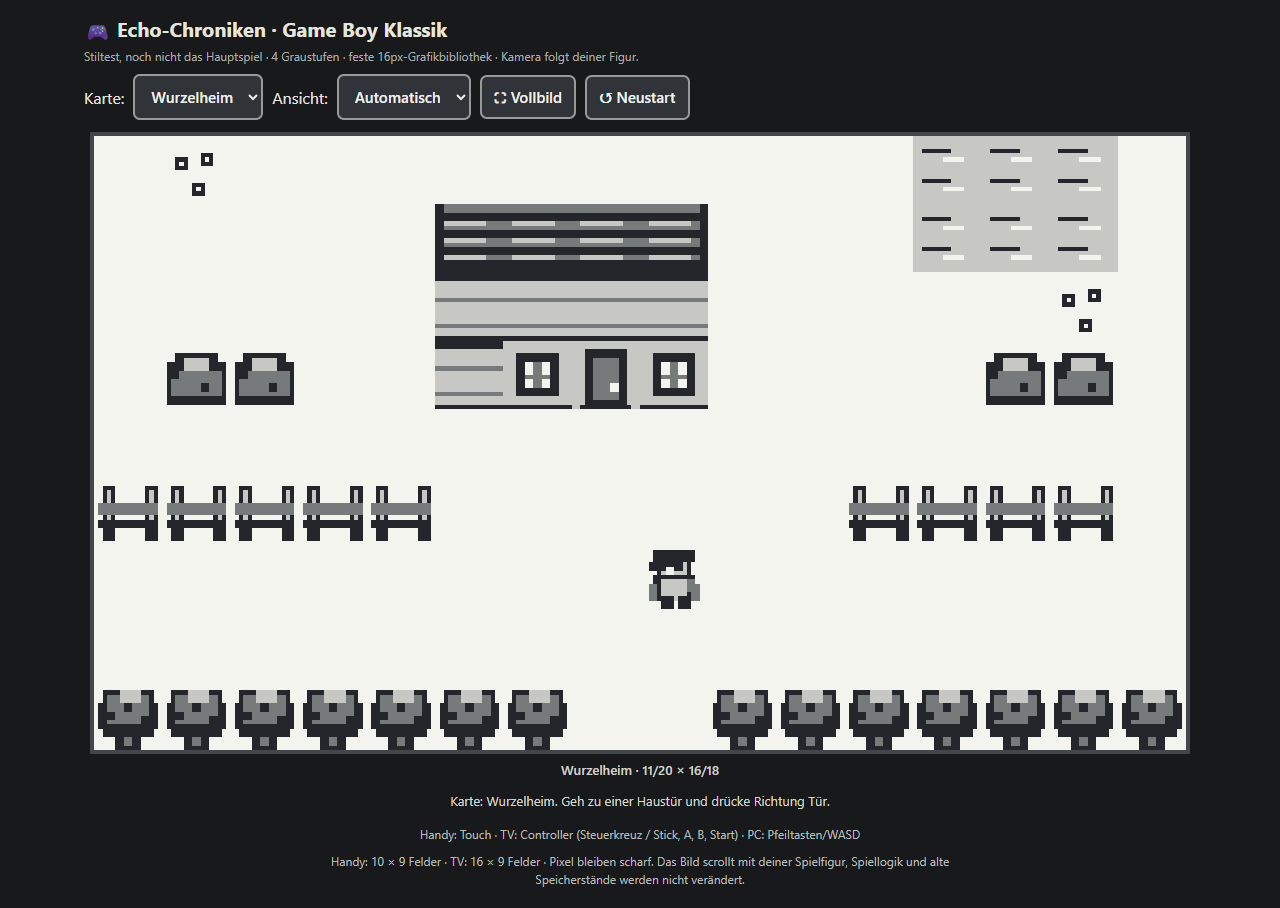
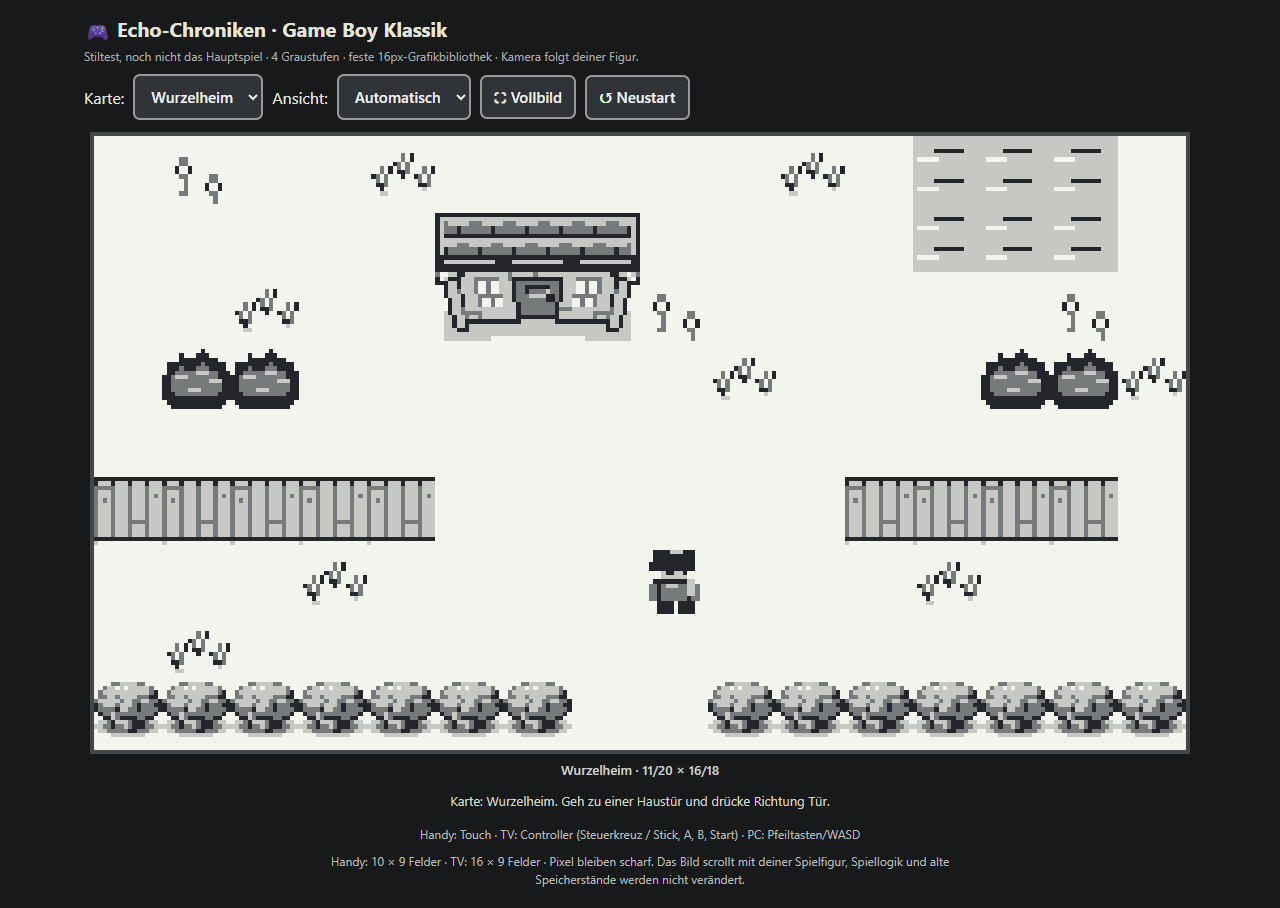
art: ship CC0 hand-pixeled 4-tone village assets and real browser screenshots

diff --git a/echo-chroniken/docs/gb-classic/klassik-demo.html b/echo-chroniken/docs/gb-classic/klassik-demo.html
@@ -56,9 +56,9 @@ h1{font-size:18px}select,button{padding:9px 10px}}
 <footer>Handy: 10 × 9 Felder · TV: 16 × 9 Felder · Pixel bleiben scharf. Das Bild scrollt mit deiner Spielfigur, Spiellogik und alte Speicherstände werden nicht verändert.</footer>
 <script>
 'use strict';
-const DATA={"version":"1.0","scenes":{"Wurzelheim":{"width":20,"height":18,"rows":["44444444400444444444","40000000000000000004","40000000000000000004","400abbc000000abbc004","400dddd000000dddd004","400defd000000def9004","40000000000000000004","40555500000055555004","40000000009000000004","400B0000000000666004","4000000abbc000666004","4000000dddd00000B004","4003300defe000033004","40000000000000000004","40555550000005555004","4000000000y000000004","40000000000000000004","44444444400444444444"],"blocked":[[0,0],[1,0],[2,0],[3,0],[4,0],[5,0],[6,0],[7,0],[8,0],[11,0],[12,0],[13,0],[14,0],[15,0],[16,0],[17,0],[18,0],[19,0],[0,1],[19,1],[0,2],[19,2],[0,3],[3,3],[4,3],[5,3],[6,3],[13,3],[14,3],[15,3],[16,3],[19,3],[0,4],[3,4],[4,4],[5,4],[6,4],[13,4],[14,4],[15,4],[16,4],[19,4],[0,5],[3,5],[4,5],[6,5],[13,5],[14,5],[19,5],[0,6],[19,6],[0,7],[2,7],[3,7],[4,7],[5,7],[12,7],[13,7],[14,7],[15,7],[16,7],[19,7],[0,8],[19,8],[0,9],[14,9],[15,9],[16,9],[19,9],[0,10],[7,10],[8,10],[9,10],[10,10],[14,10],[15,10],[16,10],[19,10],[0,11],[7,11],[8,11],[9,11],[10,11],[19,11],[0,12],[3,12],[4,12],[7,12],[8,12],[10,12],[15,12],[16,12],[19,12],[0,13],[19,13],[0,14],[2,14],[3,14],[4,14],[5,14],[6,14],[13,14],[14,14],[15,14],[16,14],[19,14],[0,15],[19,15],[0,16],[19,16],[0,17],[1,17],[2,17],[3,17],[4,17],[5,17],[6,17],[7,17],[8,17],[11,17],[12,17],[13,17],[14,17],[15,17],[16,17],[17,17],[18,17],[19,17]]},"Route":{"width":20,"height":18,"rows":["44444444000444444444","44000000000000000044","44000000000000000044","44022220000002222044","44022220000002222044","44022220000002222044","44022220000002222044","44022220000002222044","44022220000002222044","4400000000000x000044","44000090000000000044","44000000000000000044","44022220000000000044","44022220000555550044","44022220000000000044","440000000y0000000044","44000000000000000044","44444444000444444444"],"blocked":[[0,0],[1,0],[2,0],[3,0],[4,0],[5,0],[6,0],[7,0],[11,0],[12,0],[13,0],[14,0],[15,0],[16,0],[17,0],[18,0],[19,0],[0,1],[1,1],[18,1],[19,1],[0,2],[1,2],[18,2],[19,2],[0,3],[1,3],[18,3],[19,3],[0,4],[1,4],[18,4],[19,4],[0,5],[1,5],[18,5],[19,5],[0,6],[1,6],[18,6],[19,6],[0,7],[1,7],[18,7],[19,7],[0,8],[1,8],[18,8],[19,8],[0,9],[1,9],[18,9],[19,9],[0,10],[1,10],[18,10],[19,10],[0,11],[1,11],[18,11],[19,11],[0,12],[1,12],[18,12],[19,12],[0,13],[1,13],[11,13],[12,13],[13,13],[14,13],[15,13],[18,13],[19,13],[0,14],[1,14],[18,14],[19,14],[0,15],[1,15],[18,15],[19,15],[0,16],[1,16],[18,16],[19,16],[0,17],[1,17],[2,17],[3,17],[4,17],[5,17],[6,17],[7,17],[11,17],[12,17],[13,17],[14,17],[15,17],[16,17],[17,17],[18,17],[19,17]]},"Laden":{"width":12,"height":9,"rows":["hhhhhhhhhhhh","hgiiiiiggxgh","hggggggjjjjh","hggggggggggh","hggiiggiiggh","hggggggggggh","hgggggyggggh","hggggggggggh","hhhhhhfhhhhh"],"blocked":[[0,0],[1,0],[2,0],[3,0],[4,0],[5,0],[6,0],[7,0],[8,0],[9,0],[10,0],[11,0],[0,1],[2,1],[3,1],[4,1],[5,1],[6,1],[11,1],[0,2],[7,2],[8,2],[9,2],[10,2],[11,2],[0,3],[11,3],[0,4],[3,4],[4,4],[7,4],[8,4],[11,4],[0,5],[11,5],[0,6],[11,6],[0,7],[11,7],[0,8],[1,8],[2,8],[3,8],[4,8],[5,8],[7,8],[8,8],[9,8],[10,8],[11,8]]},"Heilstation":{"width":14,"height":9,"rows":["hhhhhhhhhhhhhh","hggggggngxgggh","hgvjjjjjjjjvgh","hggggggggggggh","hggggggggggggh","hggllggggllggh","hggggggygggggh","hggggggggggggh","hhhhhhhfhhhhhh"],"blocked":[[0,0],[1,0],[2,0],[3,0],[4,0],[5,0],[6,0],[7,0],[8,0],[9,0],[10,0],[11,0],[12,0],[13,0],[0,1],[7,1],[13,1],[0,2],[2,2],[3,2],[4,2],[5,2],[6,2],[7,2],[8,2],[9,2],[10,2],[11,2],[13,2],[0,3],[13,3],[0,4],[13,4],[0,5],[3,5],[4,5],[9,5],[10,5],[13,5],[0,6],[13,6],[0,7],[13,7],[0,8],[1,8],[2,8],[3,8],[4,8],[5,8],[6,8],[8,8],[9,8],[10,8],[11,8],[12,8],[13,8]]},"Schmiede":{"width":12,"height":9,"rows":["hhhhhhhhhhhh","hgiggggggggh","hggugggxgogh","hggggggggggh","hgggggpggggh","hggggggggggh","hgjjjgyggqgh","hggggggggggh","hhhhhhfhhhhh"],"blocked":[[0,0],[1,0],[2,0],[3,0],[4,0],[5,0],[6,0],[7,0],[8,0],[9,0],[10,0],[11,0],[0,1],[2,1],[11,1],[0,2],[3,2],[9,2],[11,2],[0,3],[11,3],[0,4],[6,4],[11,4],[0,5],[11,5],[0,6],[2,6],[3,6],[4,6],[9,6],[11,6],[0,7],[11,7],[0,8],[1,8],[2,8],[3,8],[4,8],[5,8],[7,8],[8,8],[9,8],[10,8],[11,8]]},"Teamtausch":{"width":12,"height":9,"rows":["hhhhhhhhhhhh","hggmmgwwwggh","hggggggggggh","hgggggxggggh","hggggggggggh","hggjggggjggh","hgggggyggggh","hggggggggggh","hhhhhhfhhhhh"],"blocked":[[0,0],[1,0],[2,0],[3,0],[4,0],[5,0],[6,0],[7,0],[8,0],[9,0],[10,0],[11,0],[0,1],[3,1],[4,1],[6,1],[7,1],[8,1],[11,1],[0,2],[11,2],[0,3],[11,3],[0,4],[11,4],[0,5],[3,5],[8,5],[11,5],[0,6],[11,6],[0,7],[11,7],[0,8],[1,8],[2,8],[3,8],[4,8],[5,8],[7,8],[8,8],[9,8],[10,8],[11,8]]},"Wohnhaus":{"width":10,"height":8,"rows":["hhhhhhhhhh","hgsggggigh","hggggggggh","hggggggggh","hggggkgggh","hgvggylggh","hggggggggh","hhhhhfhhhh"],"blocked":[[0,0],[1,0],[2,0],[3,0],[4,0],[5,0],[6,0],[7,0],[8,0],[9,0],[0,1],[2,1],[7,1],[9,1],[0,2],[9,2],[0,3],[9,3],[0,4],[5,4],[9,4],[0,5],[2,5],[6,5],[9,5],[0,6],[9,6],[0,7],[1,7],[2,7],[3,7],[4,7],[6,7],[7,7],[8,7],[9,7]]}},"symbols":{"0":"floor","1":"path","2":"grass","3":"bush","4":"tree","5":"fence","6":"water_a","7":"water_b","8":"rock","9":"sign","a":"roof_l","b":"roof_m","c":"roof_r","d":"wall","e":"window","f":"door","g":"room_floor","h":"room_wall","i":"bookshelf","j":"counter","k":"table","l":"chair","m":"computer","n":"heal_pod","o":"forge","p":"anvil","q":"crate","r":"barrel","s":"bed","t":"stairs","u":"workbench","v":"plant","w":"capsule","x":"npc","y":"player","z":"water_edge","A":"hedge","B":"flower","C":"floor_stone"}},MANIFEST={"version":"1.0","name":"Echo-Chroniken GB-Klassik","license":"Original artwork, project-owned; inspired by constraints, not copied sprites","palette":["#f4f4ef","#c7c8c4","#777a7b","#24262b"],"tileSize":16,"sprites":{"floor":{"atlasIndex":0,"collision":false},"path":{"atlasIndex":1,"collision":false},"grass":{"atlasIndex":2,"collision":false},"bush":{"atlasIndex":3,"collision":true},"tree":{"atlasIndex":4,"collision":true},"fence":{"atlasIndex":5,"collision":true},"water_a":{"atlasIndex":6,"collision":true},"water_b":{"atlasIndex":7,"collision":true},"rock":{"atlasIndex":8,"collision":true},"sign":{"atlasIndex":9,"collision":false},"roof_l":{"atlasIndex":10,"collision":true},"roof_m":{"atlasIndex":11,"collision":true},"roof_r":{"atlasIndex":12,"collision":true},"wall":{"atlasIndex":13,"collision":true},"window":{"atlasIndex":14,"collision":true},"door":{"atlasIndex":15,"collision":false},"room_floor":{"atlasIndex":16,"collision":false},"room_wall":{"atlasIndex":17,"collision":true},"bookshelf":{"atlasIndex":18,"collision":true},"counter":{"atlasIndex":19,"collision":true},"table":{"atlasIndex":20,"collision":true},"chair":{"atlasIndex":21,"collision":true},"computer":{"atlasIndex":22,"collision":true},"heal_pod":{"atlasIndex":23,"collision":true},"forge":{"atlasIndex":24,"collision":true},"anvil":{"atlasIndex":25,"collision":true},"crate":{"atlasIndex":26,"collision":true},"barrel":{"atlasIndex":27,"collision":true},"bed":{"atlasIndex":28,"collision":true},"stairs":{"atlasIndex":29,"collision":false},"workbench":{"atlasIndex":30,"collision":true},"plant":{"atlasIndex":31,"collision":true},"capsule":{"atlasIndex":32,"collision":true},"npc":{"atlasIndex":33,"collision":false},"player":{"atlasIndex":34,"collision":false},"water_edge":{"atlasIndex":35,"collision":true},"hedge":{"atlasIndex":36,"collision":true},"flower":{"atlasIndex":37,"collision":false},"floor_stone":{"atlasIndex":38,"collision":false}},"sourceReferences":["https://www.peterhajas.com/blog/pokemon_rb_map_parsing/","https://opengameart.org/content/4-colour-interior-tileset","https://opengameart.org/content/4-colour-overworld-tileset"]};
+const DATA={"version":"1.0","scenes":{"Wurzelheim":{"width":20,"height":18,"rows":["44444444400444444444","40000000000000000004","40000000000000000004","400abc0000000abc0004","400efd0000020efd9004","40200020000000000204","40000000000000000004","40555500000055555004","40000000009000000004","400B0020000020666004","4000000abc0000666004","4000200efdB00000B004","40033000000200033204","40000000000000000004","40555550000005555004","4000020000y000200004","40020000000000000004","44444444400444444444"],"blocked":[[0,0],[1,0],[2,0],[3,0],[4,0],[5,0],[6,0],[7,0],[8,0],[11,0],[12,0],[13,0],[14,0],[15,0],[16,0],[17,0],[18,0],[19,0],[0,1],[19,1],[0,2],[19,2],[0,3],[3,3],[4,3],[5,3],[13,3],[14,3],[15,3],[19,3],[0,4],[3,4],[5,4],[13,4],[15,4],[19,4],[0,5],[19,5],[0,6],[19,6],[0,7],[2,7],[3,7],[4,7],[5,7],[12,7],[13,7],[14,7],[15,7],[16,7],[19,7],[0,8],[19,8],[0,9],[14,9],[15,9],[16,9],[19,9],[0,10],[7,10],[8,10],[9,10],[14,10],[15,10],[16,10],[19,10],[0,11],[7,11],[9,11],[19,11],[0,12],[3,12],[4,12],[15,12],[16,12],[19,12],[0,13],[19,13],[0,14],[2,14],[3,14],[4,14],[5,14],[6,14],[13,14],[14,14],[15,14],[16,14],[19,14],[0,15],[19,15],[0,16],[19,16],[0,17],[1,17],[2,17],[3,17],[4,17],[5,17],[6,17],[7,17],[8,17],[11,17],[12,17],[13,17],[14,17],[15,17],[16,17],[17,17],[18,17],[19,17]]},"Route":{"width":20,"height":18,"rows":["44444444000444444444","44000000000000000044","44000000000000000044","44022220000002222044","44022220000002222044","44022220000002222044","44022220000002222044","44022220000002222044","44022220000002222044","4400000000000x000044","44000090000000000044","44000000000000000044","44022220000000000044","44022220000555550044","44022220000000000044","440000000y0000000044","44000000000000000044","44444444000444444444"],"blocked":[[0,0],[1,0],[2,0],[3,0],[4,0],[5,0],[6,0],[7,0],[11,0],[12,0],[13,0],[14,0],[15,0],[16,0],[17,0],[18,0],[19,0],[0,1],[1,1],[18,1],[19,1],[0,2],[1,2],[18,2],[19,2],[0,3],[1,3],[18,3],[19,3],[0,4],[1,4],[18,4],[19,4],[0,5],[1,5],[18,5],[19,5],[0,6],[1,6],[18,6],[19,6],[0,7],[1,7],[18,7],[19,7],[0,8],[1,8],[18,8],[19,8],[0,9],[1,9],[18,9],[19,9],[0,10],[1,10],[18,10],[19,10],[0,11],[1,11],[18,11],[19,11],[0,12],[1,12],[18,12],[19,12],[0,13],[1,13],[11,13],[12,13],[13,13],[14,13],[15,13],[18,13],[19,13],[0,14],[1,14],[18,14],[19,14],[0,15],[1,15],[18,15],[19,15],[0,16],[1,16],[18,16],[19,16],[0,17],[1,17],[2,17],[3,17],[4,17],[5,17],[6,17],[7,17],[11,17],[12,17],[13,17],[14,17],[15,17],[16,17],[17,17],[18,17],[19,17]]},"Laden":{"width":12,"height":9,"rows":["hhhhhhhhhhhh","hgiiiiiggxgh","hggggggjjjjh","hggggggggggh","hggiiggiiggh","hggggggggggh","hgggggyggggh","hggggggggggh","hhhhhhfhhhhh"],"blocked":[[0,0],[1,0],[2,0],[3,0],[4,0],[5,0],[6,0],[7,0],[8,0],[9,0],[10,0],[11,0],[0,1],[2,1],[3,1],[4,1],[5,1],[6,1],[11,1],[0,2],[7,2],[8,2],[9,2],[10,2],[11,2],[0,3],[11,3],[0,4],[3,4],[4,4],[7,4],[8,4],[11,4],[0,5],[11,5],[0,6],[11,6],[0,7],[11,7],[0,8],[1,8],[2,8],[3,8],[4,8],[5,8],[7,8],[8,8],[9,8],[10,8],[11,8]]},"Heilstation":{"width":14,"height":9,"rows":["hhhhhhhhhhhhhh","hggggggngxgggh","hgvjjjjjjjjvgh","hggggggggggggh","hggggggggggggh","hggllggggllggh","hggggggygggggh","hggggggggggggh","hhhhhhhfhhhhhh"],"blocked":[[0,0],[1,0],[2,0],[3,0],[4,0],[5,0],[6,0],[7,0],[8,0],[9,0],[10,0],[11,0],[12,0],[13,0],[0,1],[7,1],[13,1],[0,2],[2,2],[3,2],[4,2],[5,2],[6,2],[7,2],[8,2],[9,2],[10,2],[11,2],[13,2],[0,3],[13,3],[0,4],[13,4],[0,5],[3,5],[4,5],[9,5],[10,5],[13,5],[0,6],[13,6],[0,7],[13,7],[0,8],[1,8],[2,8],[3,8],[4,8],[5,8],[6,8],[8,8],[9,8],[10,8],[11,8],[12,8],[13,8]]},"Schmiede":{"width":12,"height":9,"rows":["hhhhhhhhhhhh","hgiggggggggh","hggugggxgogh","hggggggggggh","hgggggpggggh","hggggggggggh","hgjjjgyggqgh","hggggggggggh","hhhhhhfhhhhh"],"blocked":[[0,0],[1,0],[2,0],[3,0],[4,0],[5,0],[6,0],[7,0],[8,0],[9,0],[10,0],[11,0],[0,1],[2,1],[11,1],[0,2],[3,2],[9,2],[11,2],[0,3],[11,3],[0,4],[6,4],[11,4],[0,5],[11,5],[0,6],[2,6],[3,6],[4,6],[9,6],[11,6],[0,7],[11,7],[0,8],[1,8],[2,8],[3,8],[4,8],[5,8],[7,8],[8,8],[9,8],[10,8],[11,8]]},"Teamtausch":{"width":12,"height":9,"rows":["hhhhhhhhhhhh","hggmmgwwwggh","hggggggggggh","hgggggxggggh","hggggggggggh","hggjggggjggh","hgggggyggggh","hggggggggggh","hhhhhhfhhhhh"],"blocked":[[0,0],[1,0],[2,0],[3,0],[4,0],[5,0],[6,0],[7,0],[8,0],[9,0],[10,0],[11,0],[0,1],[3,1],[4,1],[6,1],[7,1],[8,1],[11,1],[0,2],[11,2],[0,3],[11,3],[0,4],[11,4],[0,5],[3,5],[8,5],[11,5],[0,6],[11,6],[0,7],[11,7],[0,8],[1,8],[2,8],[3,8],[4,8],[5,8],[7,8],[8,8],[9,8],[10,8],[11,8]]},"Wohnhaus":{"width":10,"height":8,"rows":["hhhhhhhhhh","hgsggggigh","hggggggggh","hggggggggh","hggggkgggh","hgvggylggh","hggggggggh","hhhhhfhhhh"],"blocked":[[0,0],[1,0],[2,0],[3,0],[4,0],[5,0],[6,0],[7,0],[8,0],[9,0],[0,1],[2,1],[7,1],[9,1],[0,2],[9,2],[0,3],[9,3],[0,4],[5,4],[9,4],[0,5],[2,5],[6,5],[9,5],[0,6],[9,6],[0,7],[1,7],[2,7],[3,7],[4,7],[6,7],[7,7],[8,7],[9,7]]}},"symbols":{"0":"floor","1":"path","2":"grass","3":"bush","4":"tree","5":"fence","6":"water_a","7":"water_b","8":"rock","9":"sign","a":"roof_l","b":"roof_m","c":"roof_r","d":"wall","e":"window","f":"door","g":"room_floor","h":"room_wall","i":"bookshelf","j":"counter","k":"table","l":"chair","m":"computer","n":"heal_pod","o":"forge","p":"anvil","q":"crate","r":"barrel","s":"bed","t":"stairs","u":"workbench","v":"plant","w":"capsule","x":"npc","y":"player","z":"water_edge","A":"hedge","B":"flower","C":"floor_stone"}},MANIFEST={"version":"1.0","name":"Echo-Chroniken GB-Klassik","license":"Original artwork, project-owned; inspired by constraints, not copied sprites","palette":["#f4f4ef","#c7c8c4","#777a7b","#24262b"],"tileSize":16,"sprites":{"floor":{"atlasIndex":0,"collision":false},"path":{"atlasIndex":1,"collision":false},"grass":{"atlasIndex":2,"collision":false},"bush":{"atlasIndex":3,"collision":true},"tree":{"atlasIndex":4,"collision":true},"fence":{"atlasIndex":5,"collision":true},"water_a":{"atlasIndex":6,"collision":true},"water_b":{"atlasIndex":7,"collision":true},"rock":{"atlasIndex":8,"collision":true},"sign":{"atlasIndex":9,"collision":false},"roof_l":{"atlasIndex":10,"collision":true},"roof_m":{"atlasIndex":11,"collision":true},"roof_r":{"atlasIndex":12,"collision":true},"wall":{"atlasIndex":13,"collision":true},"window":{"atlasIndex":14,"collision":true},"door":{"atlasIndex":15,"collision":false},"room_floor":{"atlasIndex":16,"collision":false},"room_wall":{"atlasIndex":17,"collision":true},"bookshelf":{"atlasIndex":18,"collision":true},"counter":{"atlasIndex":19,"collision":true},"table":{"atlasIndex":20,"collision":true},"chair":{"atlasIndex":21,"collision":true},"computer":{"atlasIndex":22,"collision":true},"heal_pod":{"atlasIndex":23,"collision":true},"forge":{"atlasIndex":24,"collision":true},"anvil":{"atlasIndex":25,"collision":true},"crate":{"atlasIndex":26,"collision":true},"barrel":{"atlasIndex":27,"collision":true},"bed":{"atlasIndex":28,"collision":true},"stairs":{"atlasIndex":29,"collision":false},"workbench":{"atlasIndex":30,"collision":true},"plant":{"atlasIndex":31,"collision":true},"capsule":{"atlasIndex":32,"collision":true},"npc":{"atlasIndex":33,"collision":false},"player":{"atlasIndex":34,"collision":false},"water_edge":{"atlasIndex":35,"collision":true},"hedge":{"atlasIndex":36,"collision":true},"flower":{"atlasIndex":37,"collision":false},"floor_stone":{"atlasIndex":38,"collision":false}},"sourceReferences":["https://www.peterhajas.com/blog/pokemon_rb_map_parsing/","https://opengameart.org/content/4-colour-interior-tileset","https://opengameart.org/content/4-colour-overworld-tileset"]};
 const atlas=new Image();
[2 lines of base64/hex data omitted]
 const TILE=16,view=document.getElementById("view"),ctx=view.getContext("2d");
 const sel=document.getElementById("scene"),mode=document.getElementById("mode");
 const msg=document.getElementById("message"),hud=document.getElementById("hud");
